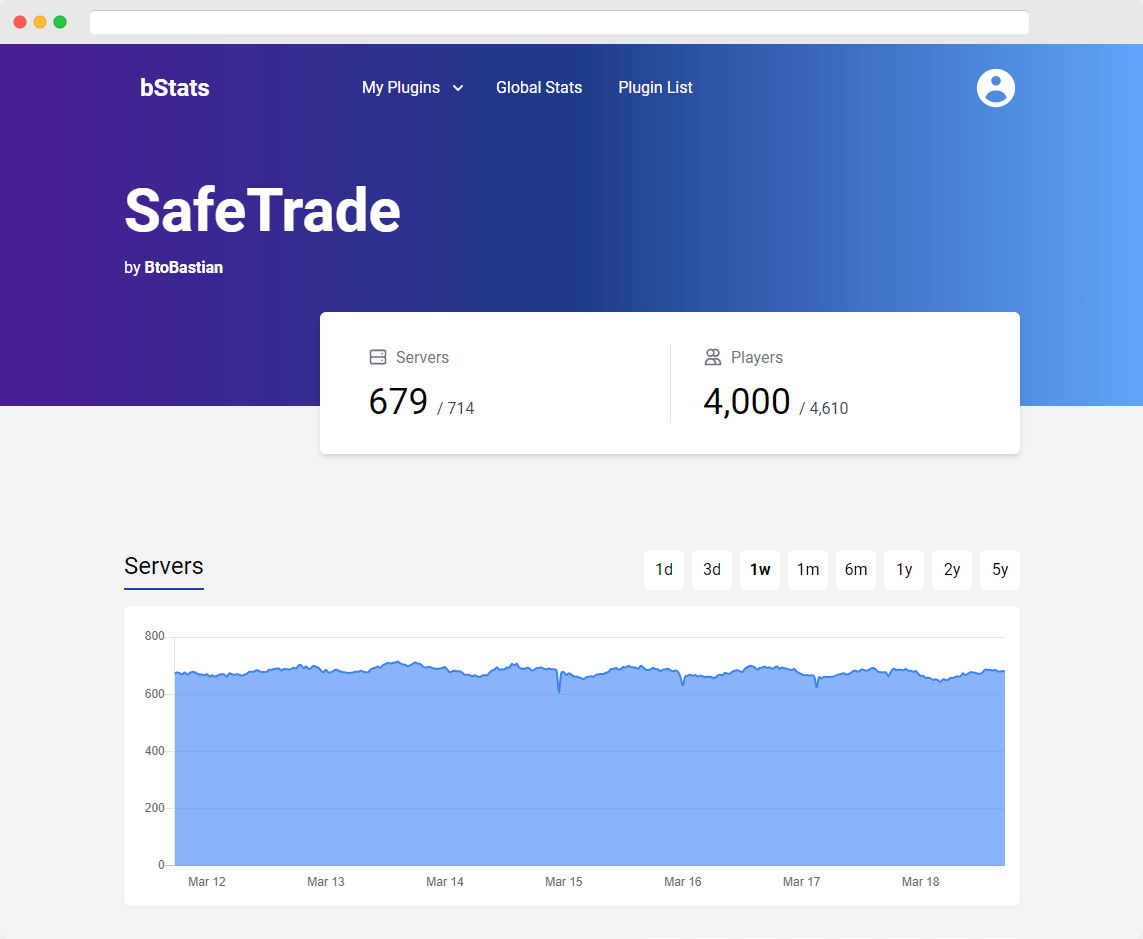
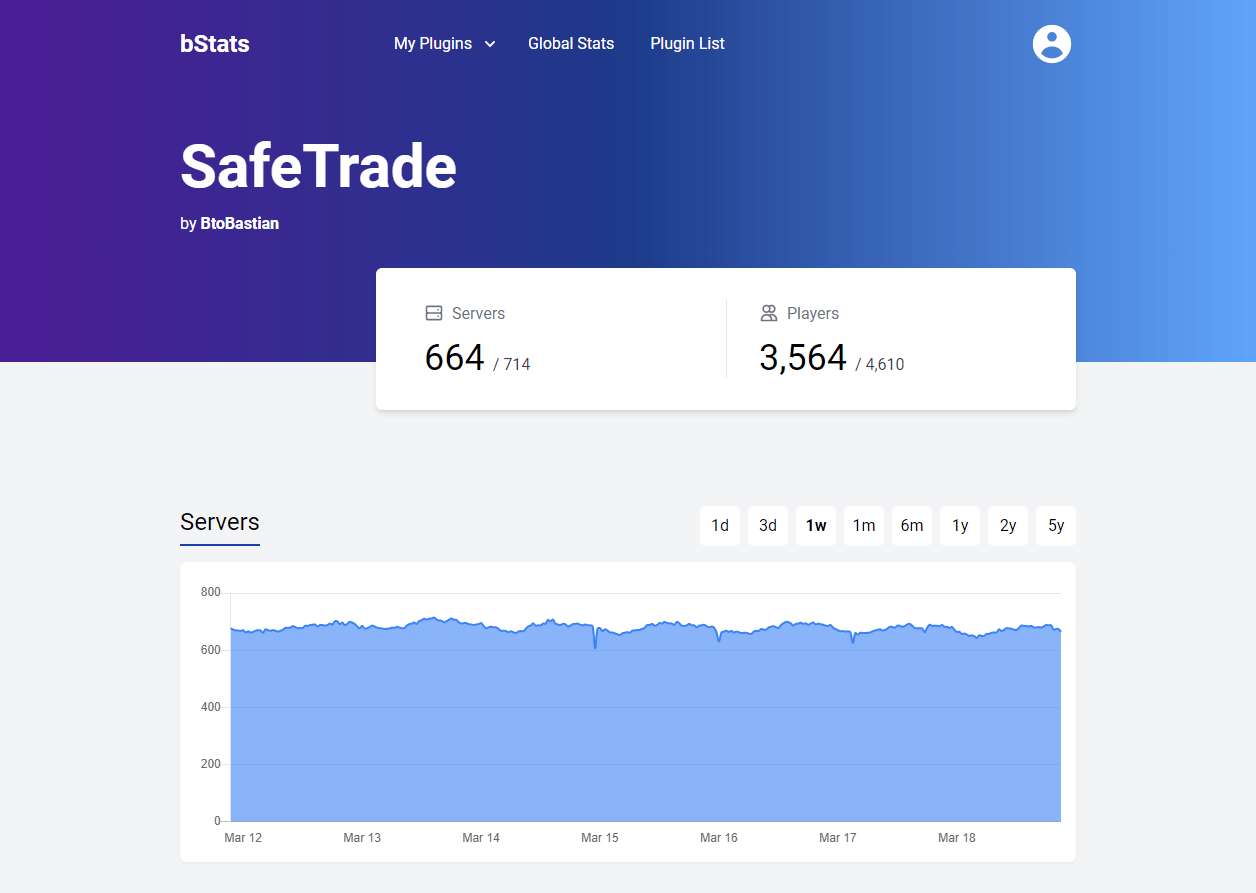
Adjust landing page image
The browser navigation is no longer part of the image but is
implemented HTML.

diff --git a/src/routes/index.svelte b/src/routes/index.svelte
@@ -50,8 +50,14 @@
                     </button>
                 </div>
             </div>
-            <div class="m-12 rounded shadow-xl md:w-3/5 md:m-0 md:ml-8 xl:mr-16">
-                <img class="w-full h-full rounded-lg" src="/img/landing-page.png" alt="Website Screenshot">
+            <div class="m-12 rounded md:w-3/5 md:m-0 md:ml-8 xl:mr-16">
+                <div class="h-6 bg-gray-200 flex items-center rounded-t-lg">
+                    <div class="bg-white ml-2 h-2 w-2 rounded-full bg-red-500"></div>
+                    <div class="bg-white ml-1 h-2 w-2 rounded-full bg-yellow-500"></div>
+                    <div class="bg-white ml-1 h-2 w-2 rounded-full bg-green-500"></div>
+                    <div class="bg-white ml-4 mr-12 h-3 flex-grow rounded-sm"></div>
+                </div>
+                <img class="w-full h-full shadow-xl rounded-b-lg" src="/img/landing-page.png" alt="Website Screenshot">
             </div>
         </div>
     </div>
